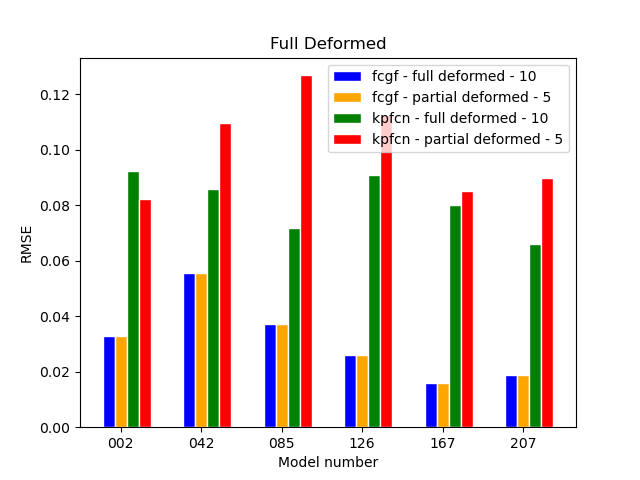
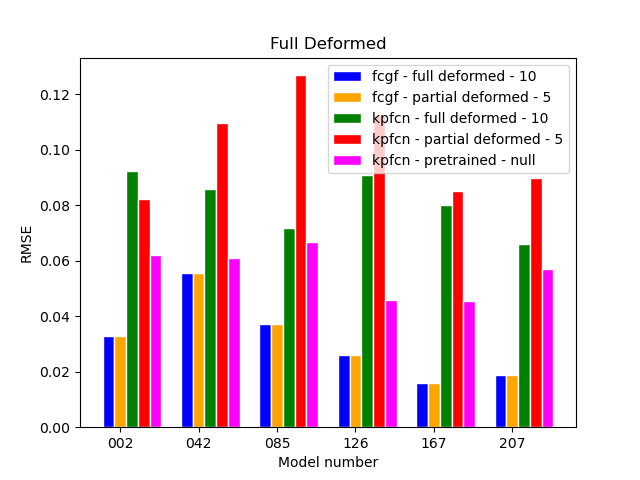
changing the plots and the shell files which runs unique tests

Changed region(s): [[0.4062, 0.1562, 0.875, 0.9375], [0.2812, 0.25, 0.375, 0.9375], [0.1562, 0.3438, 0.25, 0.9062]]

diff --git a/Testing/using_gt_ldmks/aggregate_data_4_datasets.py b/Testing/using_gt_ldmks/aggregate_data_4_datasets.py
@@ -1,13 +1,18 @@
 import re
 import matplotlib.pyplot as plt
-
-# FCGF DONE
-# KPFCN TODO
+import numpy as np
 
 partial_scan_1 = '020'
 partial_scan_2 = '104'
 
 model_numbers = ['002', '042', '085', '126', '167', '207']
+
+barWidth = 0.20
+barWidthPlot = 0.20
+br1 = np.array([0, 1, 2, 3, 4, 5])
+br2 = np.array([x + barWidth for x in br1])
+br3 = np.array([x + barWidth for x in br2])
+br4 = np.array([x + barWidth for x in br3])
 
 def data_file(file_path, deformed):
 
@@ -102,14 +107,14 @@ def plot_across_types(type, number, partial1, partial2, save_path = None):
     partial_deformed = retrieve_type(partial_deformed, type, partial1, partial2)
     partial_non_deformed = data_file('Testing/using_gt_ldmks/test_astrivis_partial_non_deformed_gt_ldmks.txt', deformed =False)
     partial_non_deformed = retrieve_type(partial_non_deformed, type)
-    plt.plot(model_numbers, full_deformed)
-    plt.plot(model_numbers, partial_deformed)
-    plt.plot(model_numbers, full_non_deformed)
-    plt.plot(model_numbers, partial_non_deformed)
+    plt.bar(br1, full_deformed, width = barWidthPlot, edgecolor='white', label = 'Full Deformed') 
+    plt.bar(br2, partial_deformed, width = barWidthPlot, edgecolor='white', label = 'Full Deformed') 
+    plt.bar(br3, full_non_deformed, width = barWidthPlot, edgecolor='white', label = 'Full Deformed') 
+    plt.bar(br4, partial_non_deformed, width = barWidthPlot, edgecolor='white', label = 'Full Deformed') 
     plt.xlabel("Model number")
     plt.ylabel(type)
+    plt.xticks([r + barWidth for r in range(len(model_numbers))], model_numbers)
     plt.legend(['Full Deformed', 'Partial Deformed', 'Full Non Deformed', 'Partial Non Deformed'])
-    plt.title(type)
     
     if save_path:
         plt.savefig(save_path)
@@ -129,13 +134,13 @@ plot_all_for_one_type(data_partial_non_deformed, 'Partial Non Deformed - all met
 
 # When the measure is fixed
 plot_across_types('RMSE', 5, partial_scan_1, partial_scan_2, save_path='Testing/using_gt_ldmks/all_data_types_rmse.png')
-plot_across_types('Strict IR', 6, partial_scan_1, partial_scan_2, save_path='Testing/using_gt_ldmks/all_data_types_strict_ir.png')
-plot_across_types('Relaxed IR', 7, partial_scan_1, partial_scan_2, save_path='Testing/using_gt_ldmks/all_data_types_relaxed_ir.png')
-plot_across_types('full-epe', 8, partial_scan_1, partial_scan_2, save_path='Testing/using_gt_ldmks/all_data_types_full_epe.png')
-plot_across_types('full-AccR', 9, partial_scan_1, partial_scan_2, save_path='Testing/using_gt_ldmks/all_data_types_full_accr.png')
-plot_across_types('full-AccS', 10, partial_scan_1, partial_scan_2, save_path='Testing/using_gt_ldmks/all_data_types_full_accs.png')
-plot_across_types('full-outlier', 11, partial_scan_1, partial_scan_2, save_path='Testing/using_gt_ldmks/all_data_types_full_outlier.png')
-plot_across_types('vis-epe', 12, partial_scan_1, partial_scan_2, save_path='Testing/using_gt_ldmks/all_data_types_vis_epe.png')
-plot_across_types('vis-AccR', 13, partial_scan_1, partial_scan_2, save_path='Testing/using_gt_ldmks/all_data_types_vis_accr.png')
-plot_across_types('vis-AccS', 14, partial_scan_1, partial_scan_2, save_path='Testing/using_gt_ldmks/all_data_types_vis_accs.png')
-plot_across_types('vis-outlier', 15, partial_scan_1, partial_scan_2, save_path='Testing/using_gt_ldmks/all_data_types_vis_outlier.png')
+# plot_across_types('Strict IR', 6, partial_scan_1, partial_scan_2, save_path='Testing/using_gt_ldmks/all_data_types_strict_ir.png')
+# plot_across_types('Relaxed IR', 7, partial_scan_1, partial_scan_2, save_path='Testing/using_gt_ldmks/all_data_types_relaxed_ir.png')
+# plot_across_types('full-epe', 8, partial_scan_1, partial_scan_2, save_path='Testing/using_gt_ldmks/all_data_types_full_epe.png')
+# plot_across_types('full-AccR', 9, partial_scan_1, partial_scan_2, save_path='Testing/using_gt_ldmks/all_data_types_full_accr.png')
+# plot_across_types('full-AccS', 10, partial_scan_1, partial_scan_2, save_path='Testing/using_gt_ldmks/all_data_types_full_accs.png')
+# plot_across_types('full-outlier', 11, partial_scan_1, partial_scan_2, save_path='Testing/using_gt_ldmks/all_data_types_full_outlier.png')
+# plot_across_types('vis-epe', 12, partial_scan_1, partial_scan_2, save_path='Testing/using_gt_ldmks/all_data_types_vis_epe.png')
+# plot_across_types('vis-AccR', 13, partial_scan_1, partial_scan_2, save_path='Testing/using_gt_ldmks/all_data_types_vis_accr.png')
+# plot_across_types('vis-AccS', 14, partial_scan_1, partial_scan_2, save_path='Testing/using_gt_ldmks/all_data_types_vis_accs.png')
+# plot_across_types('vis-outlier', 15, partial_scan_1, partial_scan_2, save_path='Testing/using_gt_ldmks/all_data_types_vis_outlier.png')

diff --git a/Testing/all/aggregate_data_all_weights_per_datatype.py b/Testing/all/aggregate_data_all_weights_per_datatype.py
@@ -152,7 +152,8 @@ for data_type in data_types:
         for feature_extractor in weights:
             for training_data_type in weights[feature_extractor]:
                 for custom in [False, True]:
-                    epoch = str(weights[feature_extractor][training_data_type])
+                    epoch = str(weights[feature_extractor][training_data_type]['epoch'])
+                    bar = weights[feature_extractor][training_data_type]['bar']
                     training_data_type_mod = training_data_type.replace('_', ' ')
                     if custom is True:
                         weights_legend = feature_extractor + ' - ' + training_data_type_mod + ' - ' + epoch + ' - custom filtering' 
@@ -170,8 +171,9 @@ for data_type in data_types:
                         rmse.append(float(data[model_number]['RMSE']))
                     
                     if custom is False:
-                        plt.plot(model_numbers, rmse, color = colors[color_idx], label=weights_legend)
+                        plt.bar(bar, rmse, color = colors[color_idx], width = barWidthPlot, edgecolor='white', label = weights_legend) 
                     else:
+                        # plt.bar(bar, rmse, color = colors[color_idx], width = barWidthPlot, edgecolor='white', label = weights_legend) 
                         plt.plot(model_numbers, rmse, color = colors[color_idx], linestyle='dashed', label='_nolegend_')
                 
                 color_idx += 1
